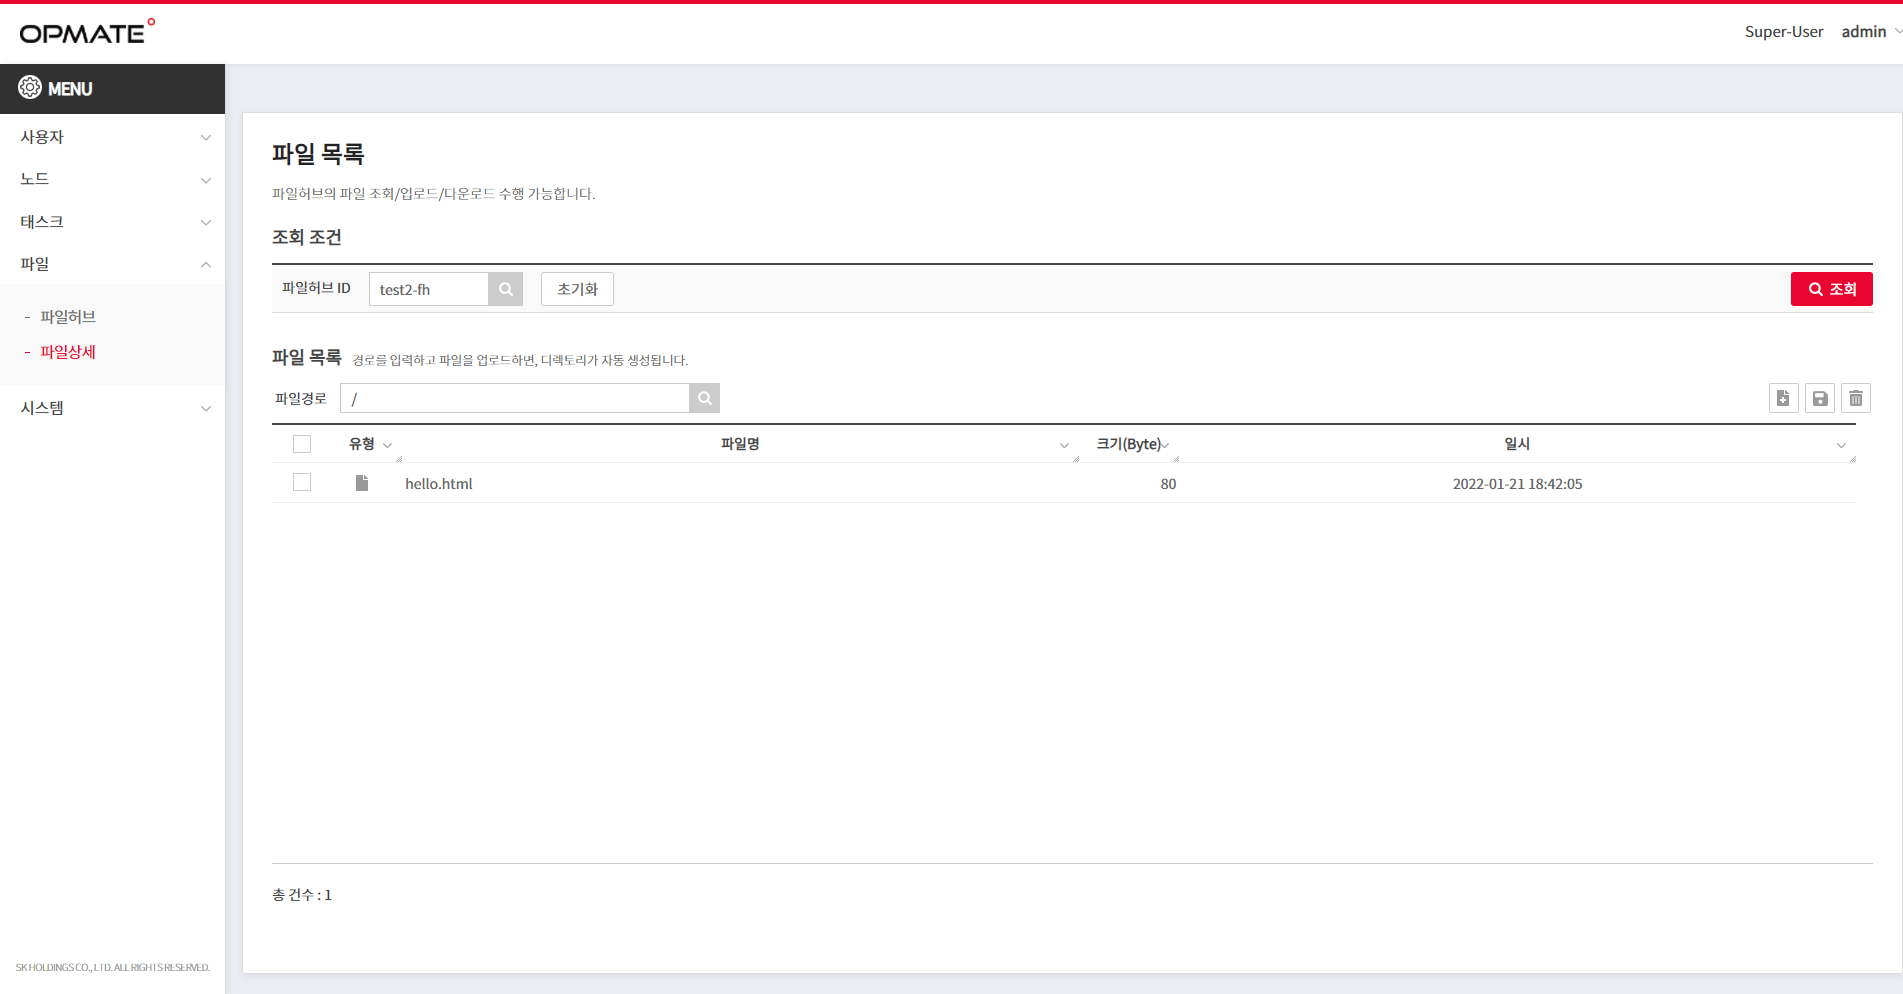
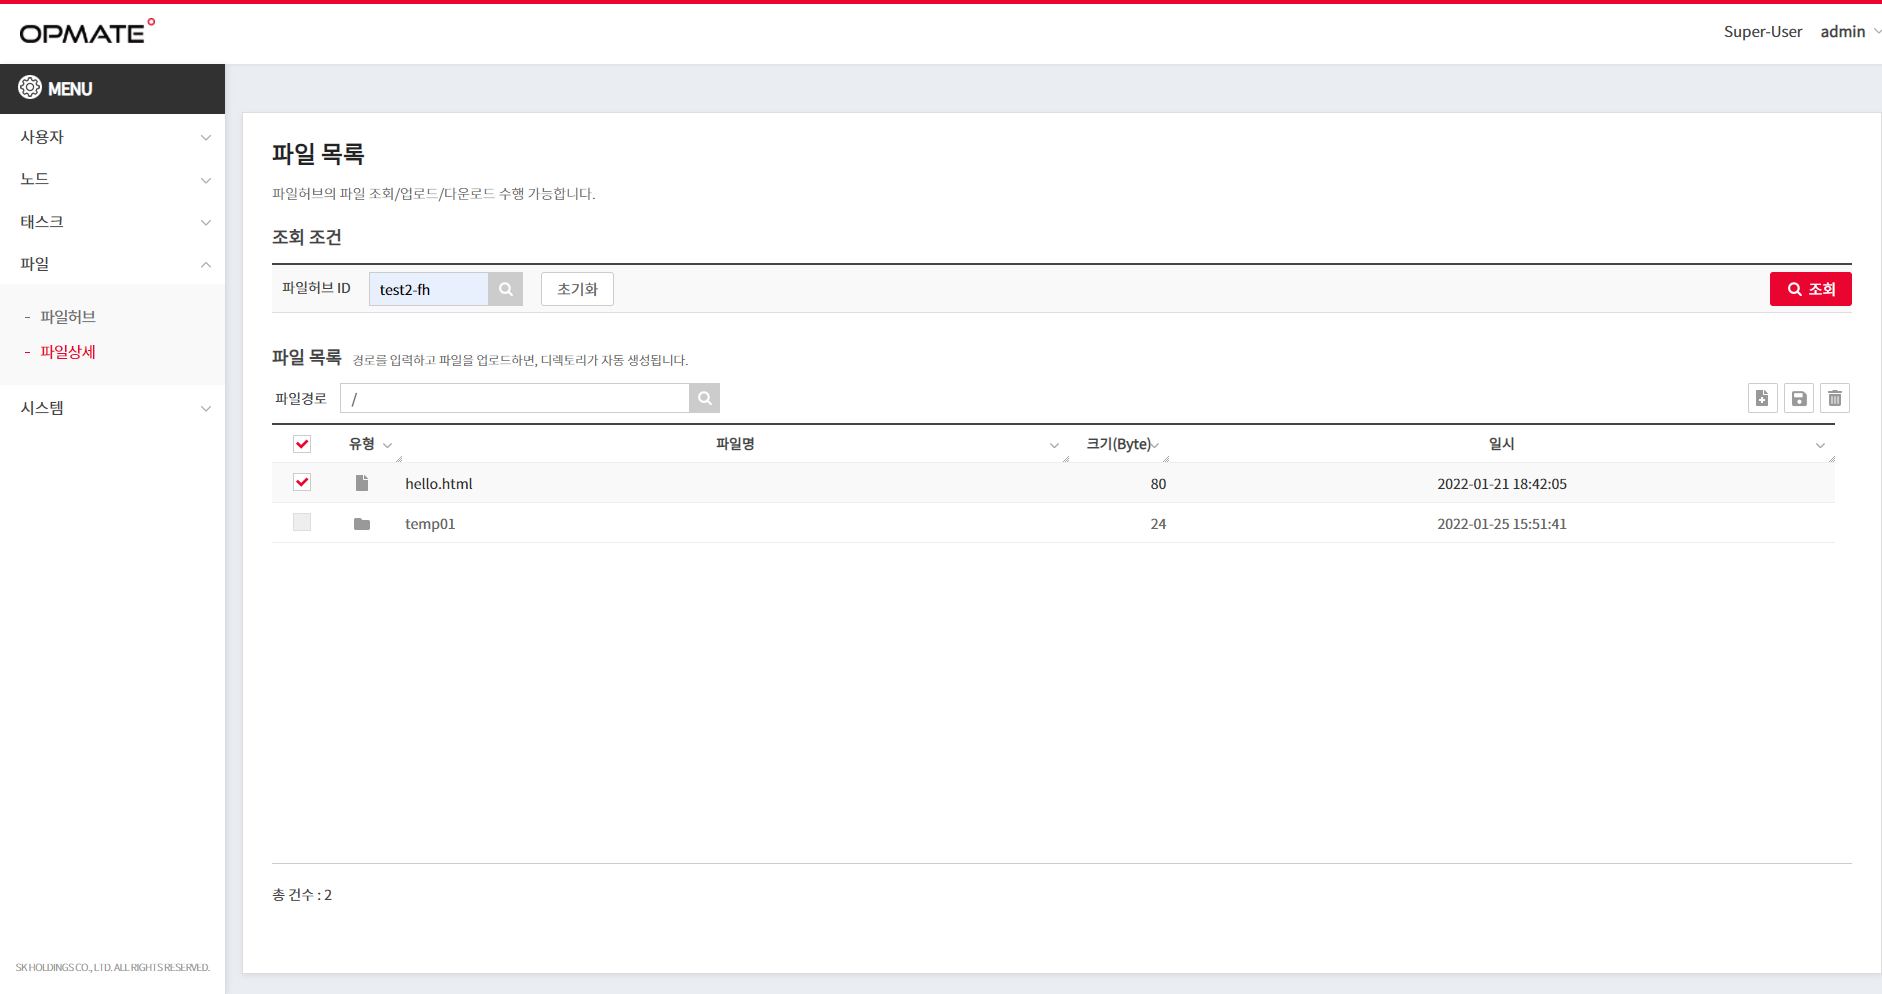
버튼 위치 수정 및 문구 수정 중

diff --git a/v2.0/opme/docs/File.md b/v2.0/opme/docs/File.md
@@ -28,7 +28,7 @@ description: 파일상세 목록/파일상세 정보
 
 ## 파일상세 목록
 OPMATE 파일허브의 파일 정보를 조회합니다.  
-파일 업로드/다운로드 수행을 합니다.  
+파일허브 ID로 파일허브 내의 파일을 조회 후, 대상을 선택하여 파일 업로드/다운로드 수행을 합니다.  
 
 
 > ![파일상세 목록][file-lst]
@@ -42,15 +42,21 @@ OPMATE 파일허브의 파일 정보를 조회합니다.
 > <kbd class="btn-gray">&nbsp;초기화&nbsp;</kbd> : 조회 조건 초기화  
 > <kbd class="btn-red">&nbsp;조회&nbsp;</kbd> : 조회 수행  
  
-### 조회 결과
+### 파일 목록
+경로를 입력하고 파일을 업로드 하면, 디렉토리가 자동 생성됩니다.  
+
+#### 입력 항목
+**파일경로** : 파일허브 내 파일이 위치한 경로를 입력합니다.    
+> -- 파일경로를 정확하게 입력하거나,   
+> -- 최상위 경로( / )에서 ![파일경로 조회][ico-search]{: .ico-gray }클릭 후 대상으로 이동합니다.
 
 #### Grid 본문영역
 > **Grid Contents** : 조회 조건에 해당하는 결과를 출력    
  
 #### Grid 상단영역  
-> ![삭제][ico-del]{: class="ico-white" } : Check 된 Row 를 삭제     
-> ![업로드][ico-upload]{: class="ico-white" } : Check 된 파일을 업로드 ([참고][popup-fileupload])  
+> ![업로드][ico-upload]{: class="ico-white" } : 팝업창을 통해 파일을 업로드 ([참고][popup-fileupload])  
 > ![다운로드][ico-download]{: class="ico-white" } : Check 된 파일을 다운로드   
+> ![삭제][ico-del]{: class="ico-white" } : Check 된 Row 를 삭제
  
 #### Grid 하단영역
 > **Left** : 조회 건수  

diff --git a/v2.0/opme/docs/FileHub.md b/v2.0/opme/docs/FileHub.md
@@ -78,12 +78,13 @@ OPMATE 파일허브 정보를 조회합니다.
 ### 권한정보  
 파일허브에 부여하는 권한정보를 입력합니다.  
 권한 적용은 다음 속성으로 구성됩니다.  
-  - 목록 조회 권한
-  - 다운로드 권한  
-  - 업로드 권한
 
-각 권한에 사용자, 사용자그룹, 태스크를 매핑할 수 있습니다.  
+  - 목록 조회 권한   
+  - 다운로드 권한   
+  - 업로드 권한  
 
+각 권한은 사용자/사용자그룹/태스크 별로 매핑할 수 있습니다.  
+>
 | **권한**  | **목록 조회** | **다운로드** | **업로드** |
 |:---:|:---------:|:--------:|:-------:|
 | _사용자1_  |     -     |    O     |    -    |
